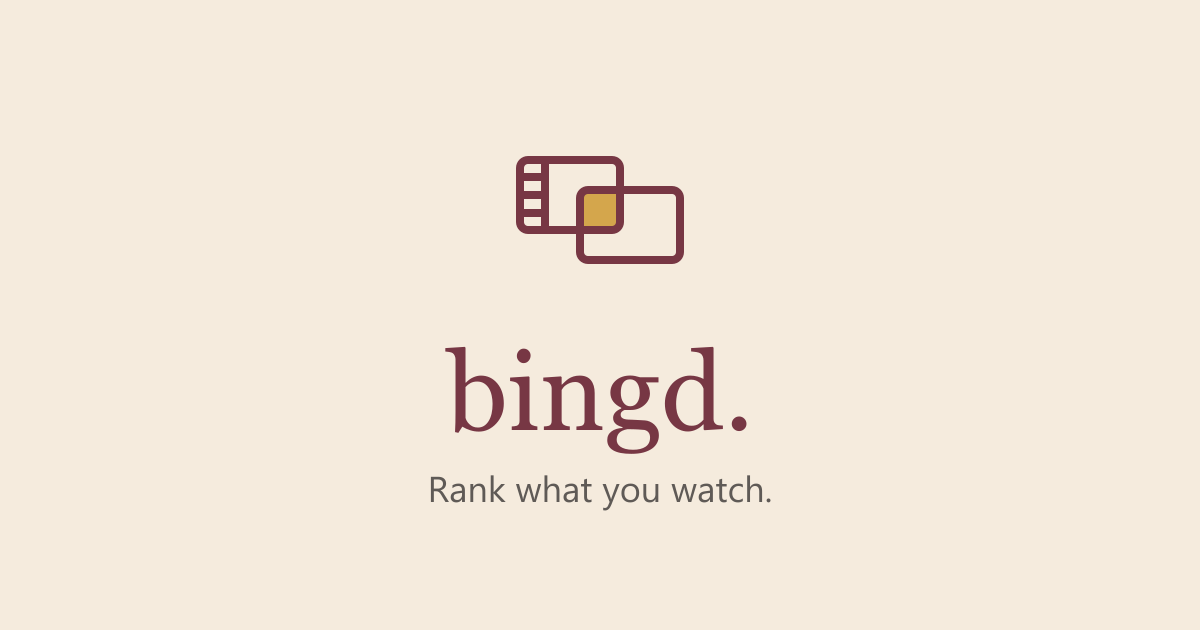
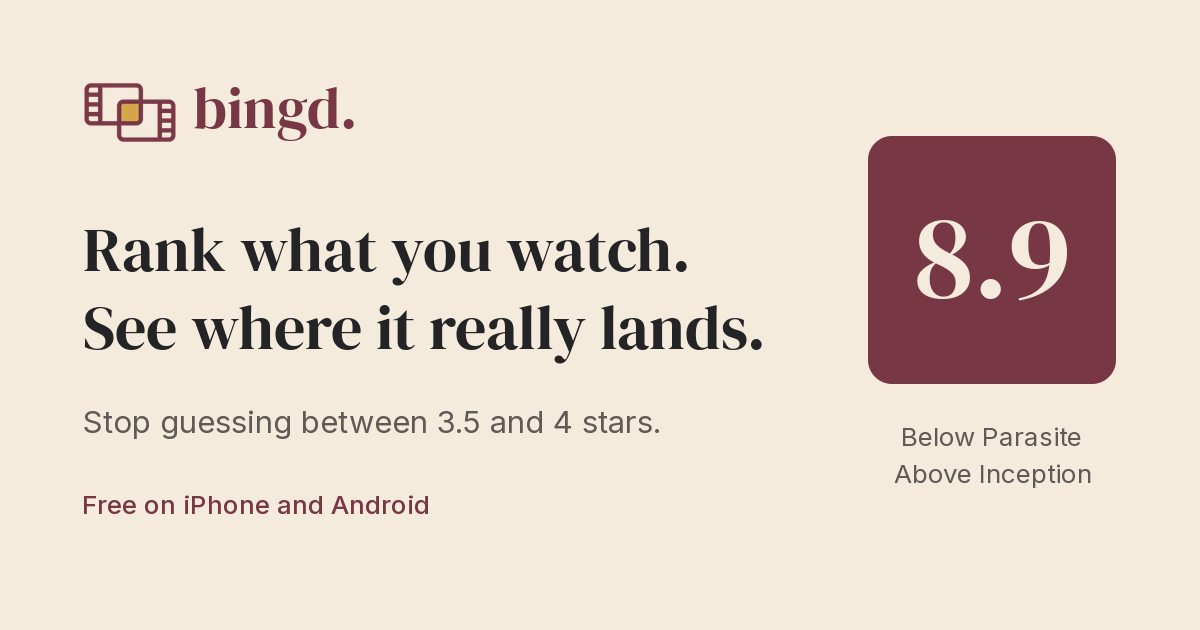
feat(web): a link preview that shows the product, and a plainer intro
Every invite, profile and list link unfurls to social-card.png, which showed
an older mark in fallback fonts. It is rendered from the real mark and the
fonts the app ships now, and shows the promise and the reveal. The site's
intro now says what you do rather than calling bingd a logging app.

Touches neither router.mjs nor any invite path, so it does not overlap #219.

diff --git a/docs/architecture/web-deployment.md b/docs/architecture/web-deployment.md
@@ -372,8 +372,9 @@ that would hurt: a plot synopsis on a link preview is a spoiler nobody asked for
 
 **The preview card is generic, and the page is not.** Each page carries `og:site_name`,
 `og:title`, `og:description`, `og:image` and the Twitter equivalents, all static text plus
-one image: `social-card.png`, 1200x630, the wordmark on the brand ground, shipped from
-`web/src/`. It is `summary_large_image`, which the card was built for. It was `summary`
+one image: `social-card.png`, 1200x630, shipped from `web/src/` and rendered by hand with
+`node web/social-card.mjs`. It shows the promise and the reveal (2026-11-02): a stranger who
+is sent a link should learn what the product does, not only what it is called. Text only. It is `summary_large_image`, which the card was built for. It was `summary`
 while the only asset was the square app icon, which every unfurler either letterboxed or
 cropped into a corner of itself.
 
